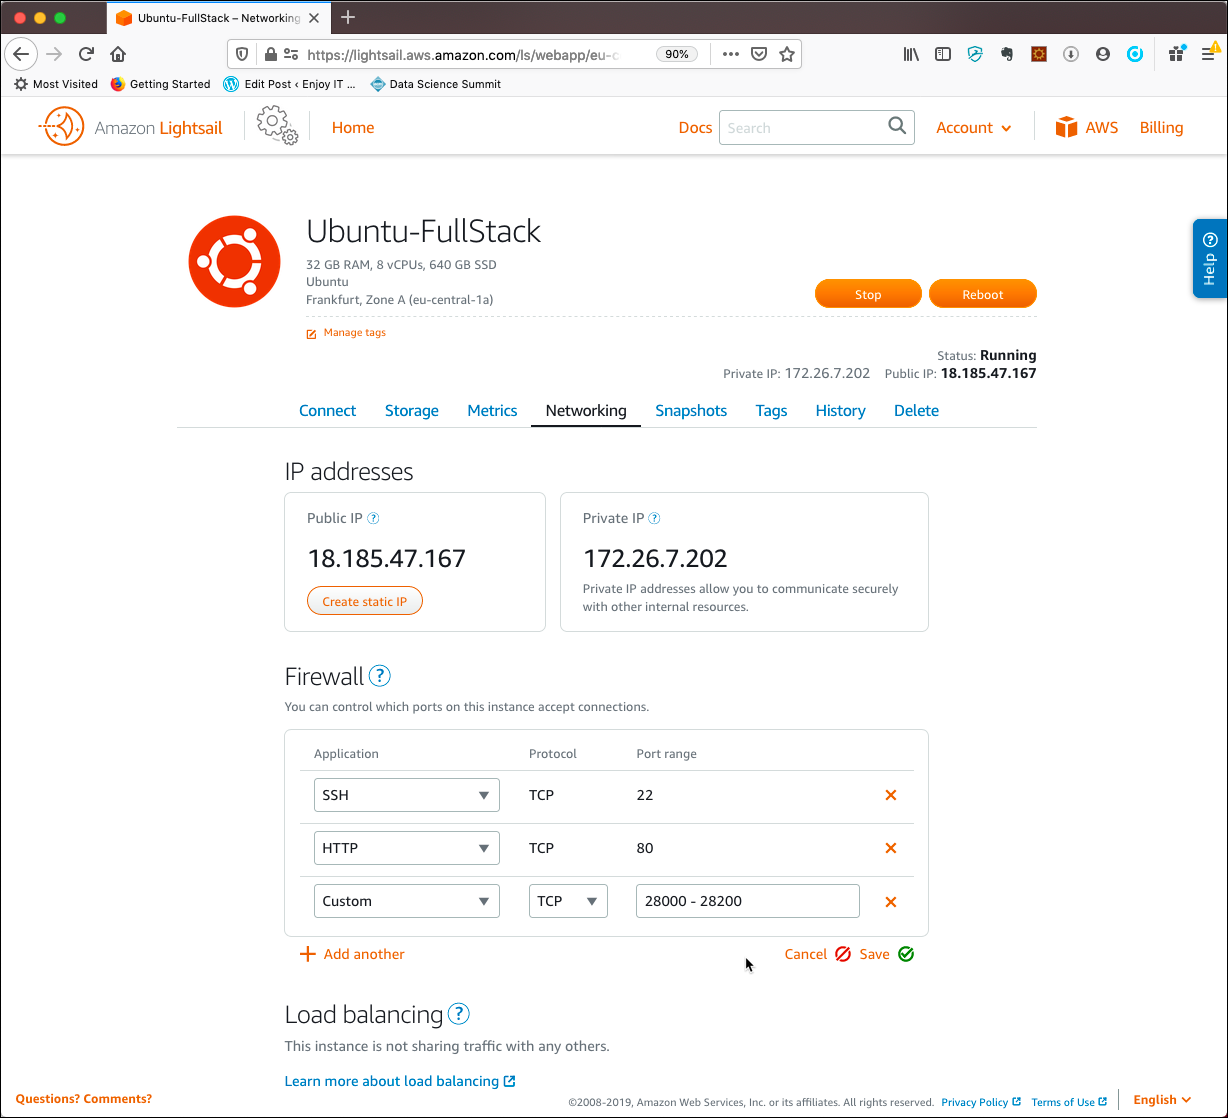
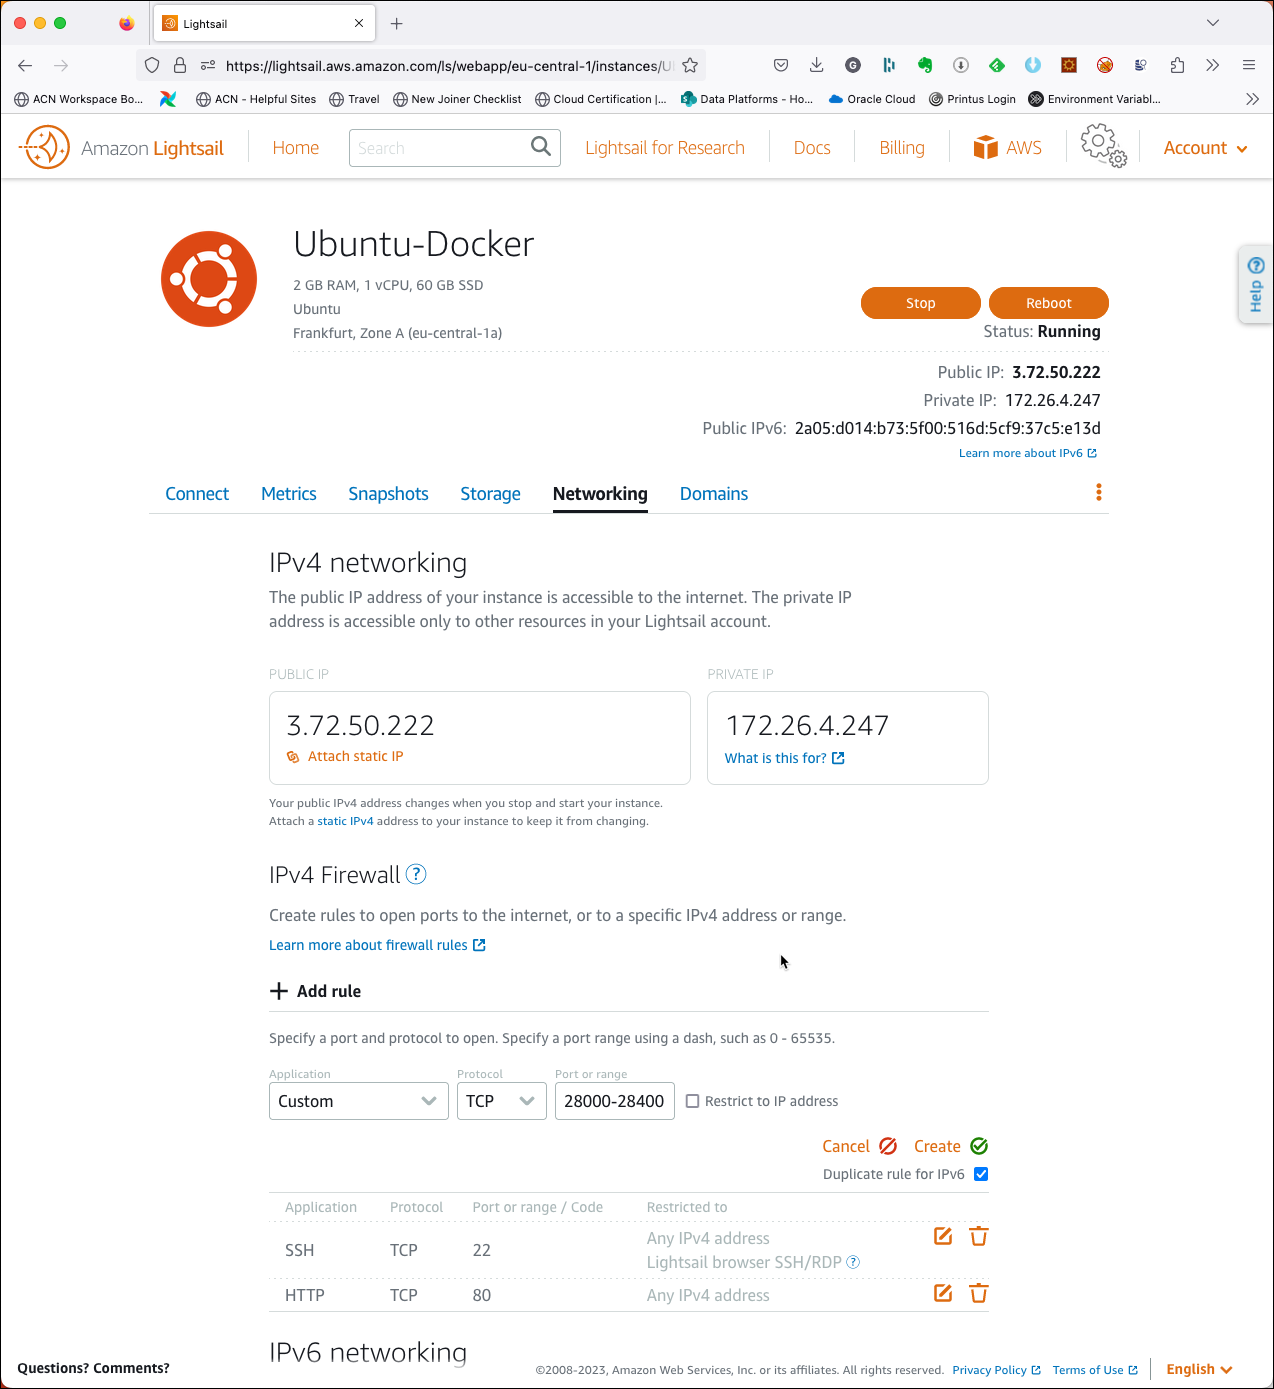
update

diff --git a/documentation/environment/Lightsail.md b/documentation/environment/Lightsail.md
@@ -1,5 +1,7 @@
 # Provision on AWS Lightsail
 
+A virtual machine with both Docker and Platys installed can be easily provisioned using AWS Lightsail with a "one-click" install.
+
 Navigate to the [AWS Console](http://console.aws.amazon.com) and login with your user. Click on the [Lightsail service](https://lightsail.aws.amazon.com/ls/webapp/home/instances).
 
 ![Alt Image Text](./images/lightsail-homepage.png "Lightsail Homepage")
@@ -21,7 +23,7 @@ Scroll down to **Launch script** and add the following script
 export USERNAME=ubuntu
 # ====> you might want to change the password to something more secure !!
 export PASSWORD=abc123!
-export PLATYS_VERSION=2.4.0
+export PLATYS_VERSION=2.4.2
 export NETWORK_NAME=eth0
 
 # Prepare Environment Variables 
@@ -81,7 +83,6 @@ sudo sysctl -w vm.max_map_count=262144
 # Make Environment Variables persistent
 sudo echo "export PUBLIC_IP=$PUBLIC_IP" | sudo tee -a /etc/profile.d/platys-platform-env.sh
 sudo echo "export DOCKER_HOST_IP=$DOCKER_HOST_IP" | sudo tee -a /etc/profile.d/platys-platform-env.sh
-sudo echo "export DATAPLATFORM_HOME=$PWD" | sudo tee -a /etc/profile.d/platys-platform-env.sh
 sudo echo "export COMPOSE_HTTP_TIMEOUT=300 | sudo tee -a /etc/profile.d/platys-platform-env.sh
 
 # Source the environment
@@ -111,7 +112,7 @@ Click on the instance to navigate to the image details page. On the right you ca
 Next we have to configure the Firewall to allow traffic into the Lightsail instance. 
 
 Click on the **Networking** tab/link to navigate to the network settings and under **Firewall** click on **+ Add another**.
-We allow TCP traffic on ports 28000 - 28200 by selecting **Custom**, entering **28000 - 28200** into the **Port range** field and then click **Save**. 
+We allow TCP traffic on ports 28000 - 28400 by selecting **Custom**, entering **28000 - 28400** into the **Port or Range** field and then click **Save**. 
 
 ![Alt Image Text](./images/lightsail-image-networking-add-firewall-rule.png "Lightsail Homepage")
 
@@ -122,9 +123,37 @@ Navigate to the **Connect** tab and click **Connect using SSH** to open the cons
 tail -f /var/log/cloud-init-output.log --lines 1000
 ```
 
-The initialisation is finished when you see the `Creating xxxxx .... done` lines after all the docker images have been downloaded, which takes a couple of minutes. 
+The initialisation is finished when you see a line
 
-![Alt Image Text](./images/lightsail-create-instance-log-file.png "Lightsail Homepage")
+```bash
+Cloud-init v. 22.4.2-0ubuntu0~22.04.1 finished at Mon, 22 May 2023 10:07:43 +0000. Datasource DataSourceEc2Local.  Up 132.85 seconds
+```
+
+Check that `platys` has been install successfully by executing `platys -v`
+
+```bash
+ubuntu@ip-172-26-4-247:~$ platys -v
+Platys - Trivadis Platform in a Box - v 2.4.2
+https://github.com/trivadispf/platys
+Copyright (c) 2018-2020, Trivadis AG
+Usage:
+  platys [flags]
+  platys [command]
+
+Available Commands:
+  clean         Cleans the contents in the $PATH/container-volume folder
+  gen           Generates all the needed artifacts for the docker-based modern (data) platform  
+  help          Help about any command  
+  init          Initializes the current directory to be the root for the Modern (Data) Platform by creating an initial config file, if one does not already exists  
+  list_services List the services  
+  stacks        Lists the predefined stacks available for the init command  
+  version       Print the version number of platys
+
+Flags:
+  -h, --help      help for platys  
+  -v, --verbose   verbose outputUse "platys [command] --help" for more information about a command.
+  ubuntu@ip-172-26-4-247:~$
+```
 
 Optionally you can also SSH into the Lightsail instance using the **SSH key pair** you have downloaded above. For that open a terminal window (on Mac / Linux) or Putty (on Windows) and connect as ubuntu to the Public IP address of the instance.   
 
